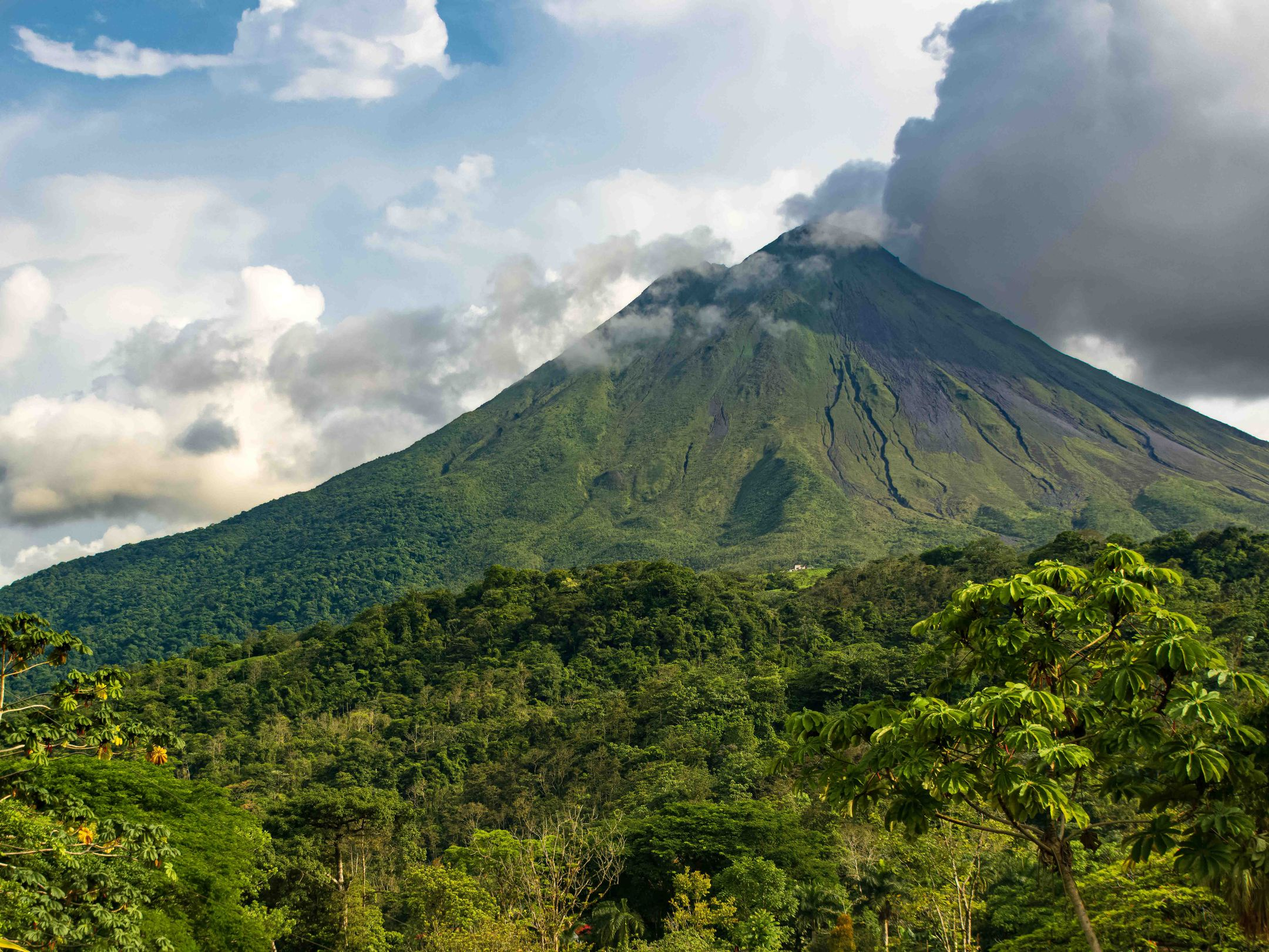
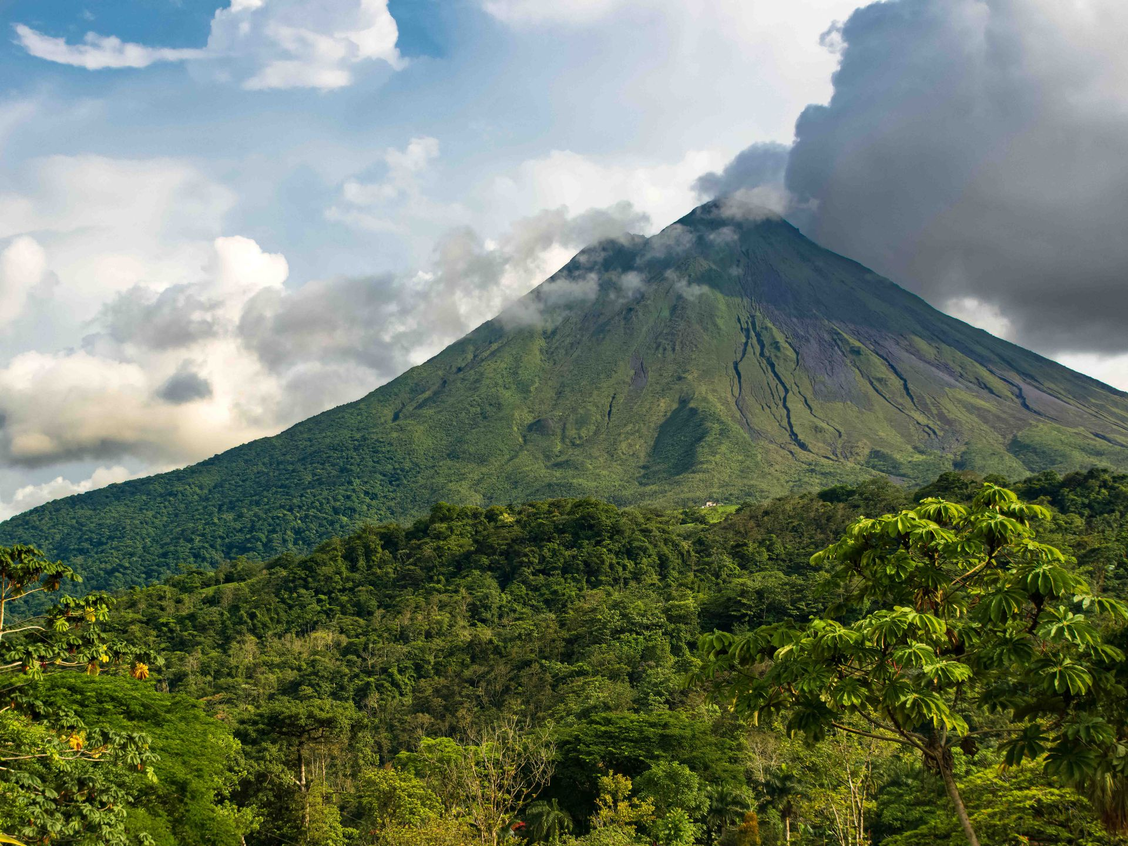
fixed mistake in backend for generating pics json

Changed region(s): [[0.4062, 0.875, 0.4688, 0.9688], [0.5312, 0.9375, 0.5625, 1.0]]

diff --git a/src/app/photo-gallery/photo-gallery.ts b/src/app/photo-gallery/photo-gallery.ts
@@ -1,4 +1,4 @@
-import { Component, HostListener, OnInit } from '@angular/core';
+import { Component, HostListener, OnInit, ElementRef, ViewChild } from '@angular/core';
 import { CommonModule } from '@angular/common';
 import { ActivatedRoute, Router, RouterModule } from '@angular/router';
 import { FormsModule } from '@angular/forms';
@@ -27,6 +27,9 @@ export class PhotoGallery implements OnInit {
   searchTerm = '';
   private _filteredImages: GalleryImage[] = [];
   filter = '';
+
+  @ViewChild('lightboxContainer') lightboxContainer?: ElementRef<HTMLElement>;
+  @ViewChild('lightboxCloseBtn') lightboxCloseBtn?: ElementRef<HTMLButtonElement>;
 
   constructor(private route: ActivatedRoute, private router: Router, private http: HttpClient, private seo: SeoService) {
     this.route.queryParams.subscribe(params => {
@@ -224,6 +227,14 @@ export class PhotoGallery implements OnInit {
 
   openLightbox(index: number) {
     this.selectedImageIndex = index;
+    // Focus the lightbox close button for accessibility after view updates
+    setTimeout(() => {
+      if (this.lightboxCloseBtn?.nativeElement) {
+        this.lightboxCloseBtn.nativeElement.focus();
+      } else if (this.lightboxContainer?.nativeElement) {
+        this.lightboxContainer.nativeElement.focus();
+      }
+    });
   }
 
   closeLightbox() {
@@ -249,6 +260,31 @@ export class PhotoGallery implements OnInit {
     return this.selectedImageIndex !== null
       ? this.filteredImages[this.selectedImageIndex]
       : null;
+  }
+
+  onLightboxKeydown(event: KeyboardEvent) {
+    if (!this.lightboxContainer) return;
+    if (event.key !== 'Tab') return;
+    const container = this.lightboxContainer.nativeElement;
+    const focusableSelectors = [
+      'a[href]','button:not([disabled])','textarea','input[type="text"]','input[type="radio"]','input[type="checkbox"]','select','[tabindex]:not([tabindex="-1"])'
+    ].join(',');
+    const focusable = Array.from(container.querySelectorAll<HTMLElement>(focusableSelectors))
+      .filter(el => el.offsetParent !== null || el === document.activeElement);
+    if (focusable.length === 0) return;
+    const first = focusable[0];
+    const last = focusable[focusable.length - 1];
+    if (event.shiftKey) {
+      if (document.activeElement === first) {
+        last.focus();
+        event.preventDefault();
+      }
+    } else {
+      if (document.activeElement === last) {
+        first.focus();
+        event.preventDefault();
+      }
+    }
   }
 
   getCurrentFolderPath(folder: string): string {

diff --git a/src/app/photo-gallery/photo-gallery.html b/src/app/photo-gallery/photo-gallery.html
@@ -20,7 +20,8 @@
   </div>
 
   <div class="gallery-search-bar">
-    <input type="text" placeholder="Search by country or description" [(ngModel)]="searchTerm" (input)="onSearch()" />
+    <input type="text" placeholder="Search by country or description"
+      aria-label="Search images by country or description" [(ngModel)]="searchTerm" (input)="onSearch()" />
     <span class="gallery-search-count">{{ filteredImages.length }} images found</span>
   </div>
 
@@ -49,15 +50,17 @@
   </div>
 
   <!-- Lightbox -->
-  <div class="lightbox" *ngIf="lightboxImage" (click)="closeLightbox()" tabindex="0" (keydown.arrowLeft)="prevImage()"
-    (keydown.arrowRight)="nextImage()">
+  <div class="lightbox" *ngIf="lightboxImage" (click)="closeLightbox()" [attr.role]="'dialog'" aria-modal="true"
+    [attr.aria-label]="lightboxImage.description" tabindex="-1" #lightboxContainer (keydown.arrowLeft)="prevImage()"
+    (keydown.arrowRight)="nextImage()" (keydown.escape)="closeLightbox()" (keydown)="onLightboxKeydown($event)">
     <div class="lightbox-content" (click)="$event.stopPropagation()">
-      <button class="lightbox-nav left" (click)="prevImage()" [disabled]="selectedImageIndex === 0">&#8592;</button>
+      <button class="lightbox-nav left" (click)="prevImage()" [disabled]="selectedImageIndex === 0"
+        aria-label="Previous image">&#8592;</button>
       <img [src]="lightboxImage.src" [alt]="lightboxImage.description" />
       <button class="lightbox-nav right" (click)="nextImage()"
-        [disabled]="selectedImageIndex === filteredImages.length - 1">&#8594;</button>
-      <div class="lightbox-desc">{{ lightboxImage.description }}</div>
-      <button class="lightbox-close" (click)="closeLightbox()">×</button>
+        [disabled]="selectedImageIndex === filteredImages.length - 1" aria-label="Next image">&#8594;</button>
+      <div class="lightbox-desc" id="lightbox-desc">{{ lightboxImage.description }}</div>
+      <button class="lightbox-close" (click)="closeLightbox()" #lightboxCloseBtn aria-label="Close lightbox">×</button>
     </div>
   </div>
 

diff --git a/src/app/app.scss b/src/app/app.scss
@@ -4,7 +4,7 @@ $cb-light-green: #e0f7e9;
 $cb-grey: #212529;
 $cb-gray: #212529;
 $cb-red: #dc3545;
-
+@use 'sass:color';
 .cb-light-green {
   color: $cb-light-green;
 }
@@ -205,4 +205,53 @@ body {
   overflow-x: hidden;
   margin: 0;
   padding: 0;
+}
+
+// Improve default focus visibility for accessibility
+button:focus-visible,
+a:focus-visible,
+input:focus-visible,
+select:focus-visible,
+textarea:focus-visible {
+  outline: 2px solid $cb-blue;
+  outline-offset: 2px;
+}
+
+// Back to top button styles
+#back-to-top {
+  position: fixed;
+  right: 16px;
+  bottom: 24px;
+  width: 44px;
+  height: 44px;
+  border-radius: 50%;
+  border: none;
+  background: $cb-green;
+  color: #fff;
+  font-size: 1.5rem;
+  line-height: 44px;
+  text-align: center;
+  cursor: pointer;
+  box-shadow: 0 4px 16px rgba(0,0,0,0.2);
+  z-index: 1000;
+}
+
+#back-to-top:hover {
+  background: color.adjust($cb-green, $lightness: -5%);
+}
+
+.visually-hidden {
+  position: absolute !important;
+  width: 1px !important;
+  height: 1px !important;
+  padding: 0 !important;
+  margin: -1px !important;
+  overflow: hidden !important;
+  clip: rect(0, 0, 0, 0) !important;
+  white-space: nowrap !important;
+  border: 0 !important;
+}
+
+@media (prefers-reduced-motion: reduce) {
+  html { scroll-behavior: auto; }
 }

diff --git a/src/app/app.ts b/src/app/app.ts
@@ -1,4 +1,4 @@
-import { Component, OnInit, Renderer2, signal, ViewChild } from '@angular/core';
+import { Component, HostListener, OnInit, Renderer2, signal, ViewChild } from '@angular/core';
 import { RouterOutlet } from '@angular/router';
 import { Footer } from './footer/footer';
 import { Header } from './header/header';
@@ -17,6 +17,7 @@ import { Notifications } from './notifications/notifications';
 })
 export class AppComponent implements OnInit {
   protected readonly title = signal('photography');
+  showBackToTop = false;
 
   constructor(private renderer: Renderer2, private viewportScroller: ViewportScroller) {}
 
@@ -73,5 +74,15 @@ export class AppComponent implements OnInit {
 
   showNotification(message: string, type: 'success' | 'error') {
     this.notifications.showMessage(message, type);
+  }
+
+  @HostListener('window:scroll')
+  onWindowScroll() {
+    const y = window.scrollY || document.documentElement.scrollTop || 0;
+    this.showBackToTop = y > 400;
+  }
+
+  scrollToTop() {
+    this.viewportScroller.scrollToPosition([0, 0]);
   }
 }

diff --git a/scripts/resize-images.js b/scripts/resize-images.js
@@ -33,15 +33,16 @@ function resizeAndCopyWebImage(inputPath, outputPath) {
   const newBase = parsed.name.replace(/web$/, '') + parsed.ext;
   const newOutputPath = path.join(parsed.dir, newBase);
 
+  // Erzeuge NUR eine optimierte JPEG-Variante
   sharp(inputPath)
     .resize({ width: TARGET_WIDTH, withoutEnlargement: true })
-    .jpeg({ quality: 80 }) // Qualität auf 80% setzen
+    .jpeg({ quality: 80 })
     .toFile(newOutputPath)
     .then(() => {
-      console.log(`Resized & copied: ${newOutputPath}`);
+      console.log(`Resized & saved: ${newOutputPath}`);
     })
     .catch(err => {
-      console.error(`Error resizing ${inputPath}:`, err);
+      console.error(`Error processing ${inputPath}:`, err);
     });
 }
 

diff --git a/src/app/notifications/notifications.html b/src/app/notifications/notifications.html
@@ -1,5 +1,9 @@
-<div class="notification-bar" [ngClass]="type" *ngIf="message">
-  <p>{{ message }}</p>
+<div class="notification-bar"
+     *ngIf="message"
+     [ngClass]="type"
+     [attr.role]="type === 'error' ? 'alert' : 'status'"
+     aria-live="polite">
+  <p class="notification-message">{{ message }}</p>
   <p class="notification-second-prio">(Closes automatically in {{ countdown }} seconds)</p>
-  <button class="dismiss-btn" (click)="dismiss()">X</button>
+  <button class="dismiss-btn" type="button" aria-label="Dismiss notification" (click)="dismiss()">X</button>
 </div>

diff --git a/src/app/app.html b/src/app/app.html
@@ -7,3 +7,14 @@
 </main>
 
 <app-footer></app-footer>
+
+<!-- Back to top button -->
+<button id="back-to-top"
+        type="button"
+        aria-label="Back to top"
+        *ngIf="showBackToTop"
+        (click)="scrollToTop()">
+  ↑
+  <span class="visually-hidden">Back to top</span>
+  
+</button>

diff --git a/src/app/notifications/notifications.scss b/src/app/notifications/notifications.scss
@@ -82,3 +82,10 @@ $color-info: $cb-blue;
         transform: translateY(-100%); // Ende: außerhalb des sichtbaren Bereichs
     }
 }
+
+// Respect users who prefer reduced motion
+@media (prefers-reduced-motion: reduce) {
+    .notification-bar {
+        animation: none !important;
+    }
+}
